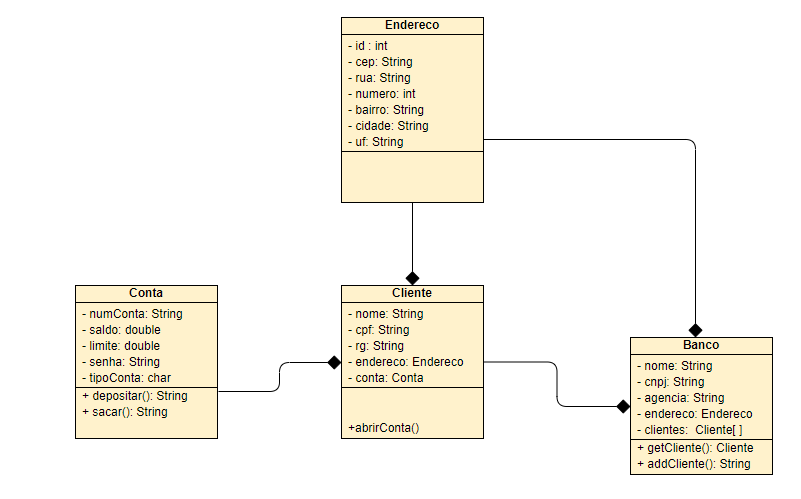
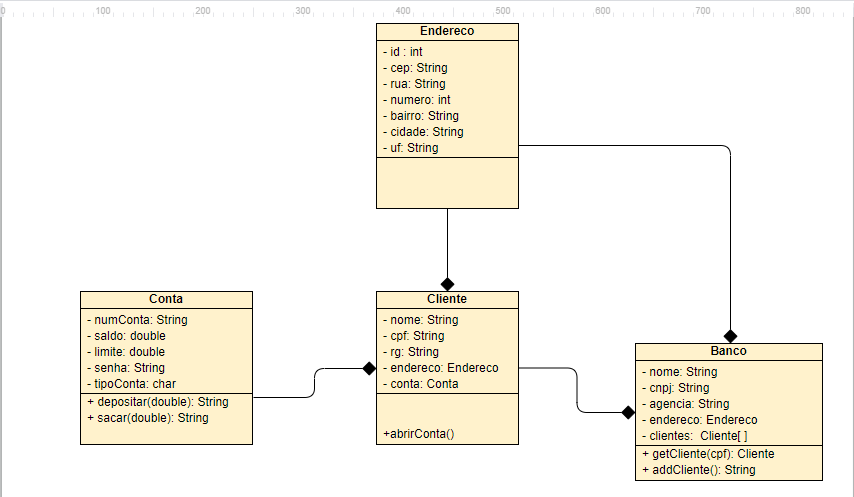
ajustes UML Banco

diff --git a/008-Java/000 - Exercícios/Lista3E1/src/Tela.java b/008-Java/000 - Exercícios/Lista3E1/src/Tela.java
@@ -1,0 +1,108 @@
+import java.util.Scanner;
+
+public class Tela {
+
+	public static void main(String[] args) {
+		// TODO Auto-generated method stub
+		
+		Scanner tc = new Scanner(System.in); 
+		
+		Calculadora calc = new Calculadora(); 
+		
+		char menu; 
+		double numero1; 
+		double numero2; 
+		double resultado = 0; 
+		
+		
+		do {
+			System.out.println("Menu: ");
+			System.out.println("1 - somar");
+			System.out.println("2 - subtrair");
+			System.out.println("3 - dividir");
+			System.out.println("4 - multiplicar");
+			System.out.println("5 - addMemoria");
+			System.out.println("6 - clrMemoria");
+			System.out.println("7 - getMemoria");
+			System.out.println("s - Sair");
+			menu = tc.next().charAt(0);
+			
+			switch (menu) {
+			case '1':  //Somar 
+				System.out.println("1. Número: ");
+				numero1 = tc.nextDouble(); 
+				System.out.println("2. Número: ");
+				numero2 = tc.nextDouble();
+				
+				resultado = calc.somar(numero1, numero2); 
+				System.out.println("Resultado: " + resultado);
+				
+				break;
+
+			case '2':  //Subtrair 
+				System.out.println("1. Número: ");
+				numero1 = tc.nextDouble(); 
+				System.out.println("2. Número: ");
+				numero2 = tc.nextDouble();
+				
+				resultado = calc.subtrair(numero1, numero2); 
+				System.out.println("Resultado: " + resultado);
+				
+				break;	
+				
+			case '3':  //Dividir
+				System.out.println("1. Número: ");
+				numero1 = tc.nextDouble(); 
+				System.out.println("2. Número: ");
+				numero2 = tc.nextDouble();
+				
+				resultado = calc.dividir(numero1, numero2); 
+				System.out.println("Resultado: " + resultado);
+				
+				break;				
+				
+			case '4':  //Multiplicar 
+				System.out.println("1. Número: ");
+				numero1 = tc.nextDouble(); 
+				System.out.println("2. Número: ");
+				numero2 = tc.nextDouble();
+				
+				resultado = calc.multiplicar(numero1, numero2); 
+				System.out.println("Resultado: " + resultado);
+				
+				break;	
+				
+			case '5':  //addMemoria
+				calc.addMemoria(resultado);
+				System.out.println("+M");
+
+				break;			
+				
+			case '6':  //clrMemoria
+				calc.clrMemoria();
+				break;				
+		
+			case '7':  //getMemoria
+				resultado = calc.getMemoria();
+				System.out.println("Resultado: " + resultado);
+				break;				
+										
+			case 's':  //sair
+			case 'S': 
+				System.out.println("Finalizando Programa...");
+				break;	
+				
+			default:
+				System.out.println("Opção Inválida!");
+				break;
+			}
+			
+			
+		} while (menu != 's' && menu != 'S');
+		
+		
+		
+
+	}
+
+}

diff --git a/008-Java/000 - Exercícios/Lista3E1/src/Calculadora.java b/008-Java/000 - Exercícios/Lista3E1/src/Calculadora.java
@@ -1,0 +1,35 @@
+
+public class Calculadora {
+
+	private double memoria; 
+	
+	
+	public double somar(double num1, double num2) {
+		return num1 + num2; 
+	}
+	
+	public double subtrair(double num1, double num2) {
+		return num1 - num2; 
+	}
+	
+	public double multiplicar(double num1, double num2) {
+		return num1 * num2; 
+	}
+	
+	public double dividir(double num1, double num2) {
+		return num1 / num2; 
+	}
+	
+	public void addMemoria(double num1) {
+		this.memoria = num1; 
+	}
+	
+	public void clrMemoria() {
+		this.memoria = 0; 
+	}
+	
+	public double getMemoria() {
+		return this.memoria;
+	}
+	
+}
